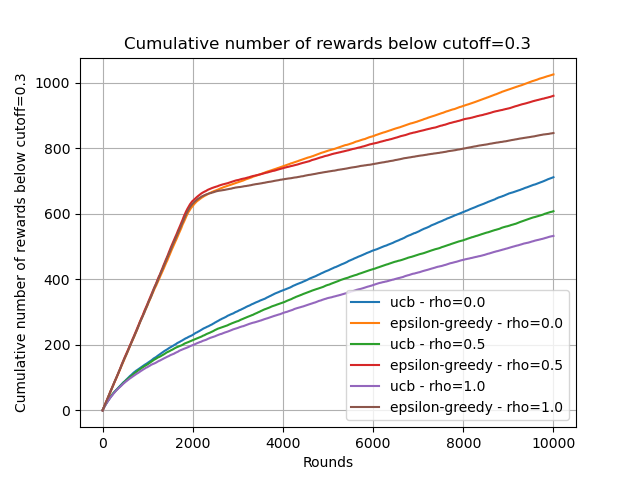
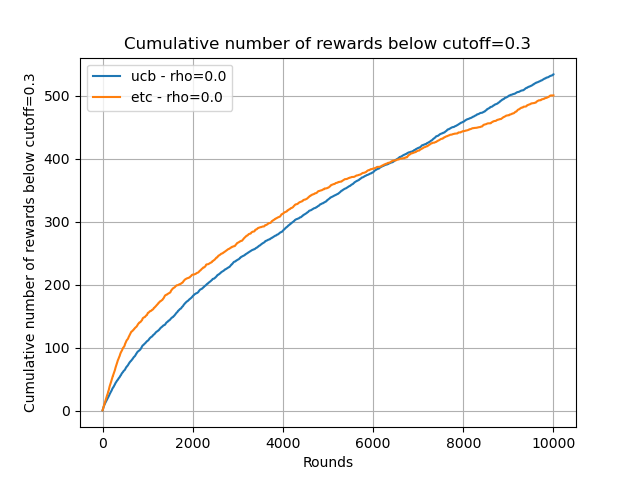
Arm acquiring case, ETC done

Changed region(s): [[0.0, 0.125, 0.9062, 0.875], [0.7812, 0.375, 0.8438, 0.4062], [0.8438, 0.25, 0.875, 0.2812]]

diff --git a/algorithms/etc_mv.py b/algorithms/etc_mv.py
@@ -5,39 +5,37 @@ from util.bandit_algorithm import MVBanditAlgorithm
 import copy
 import abc
 
-class ucb(MVBanditAlgorithm):
-    def __init__(self, _bandit_machine: BanditMachine, rho=1, cutoffs=[0]):
+class etc_mv(MVBanditAlgorithm):
+    def __init__(self, _bandit_machine: BanditMachine, rho=1, cutoffs=0):
         self._bandit_machine = copy.deepcopy(_bandit_machine)
         self._rho = rho
         self._cutoffs = cutoffs
         return
     
-    @abc.abstractmethod
-    def _get_std_coeff(self, t): return
-
     def run_alg(self, T: int, bandit_machine=None):
         if  bandit_machine is None:
             bandit_machine = copy.deepcopy(self._bandit_machine)
-        else:
-            delta = 1.0 / T**2
-            max_var = max([a.variance() for a in self._bandit_machine.arms])
-            self._std_coeff = np.sqrt(2 * max_var * np.log(1.0 / delta))
 
-        K = bandit_machine.num_arms
-
-        U = np.ones(K) * np.inf
-        mu = np.zeros(K)
-        var = np.zeros(K)
-        goodness = np.zeros(K)
-        N = np.zeros(K)
+        init_num_arms = bandit_machine.num_arms
+        
+        sample_means = np.zeros(shape=(init_num_arms,), dtype=float)
+        sample_vars = np.zeros(shape=(init_num_arms,), dtype=float)
+        sample_goodness = np.zeros(shape=(init_num_arms,), dtype=float)
+        sample_pulls = np.zeros(shape=(init_num_arms,), dtype=int)
+        
+        total_reward_per_round = np.zeros(shape=(T,), dtype=float)
         total_reward = 0.0
-        total_reward_per_round = np.zeros(T)
+
+        best_mean, best_arm = bandit_machine.get_max_mean()
+        
+        total_best_exp_reward_per_round = np.zeros(shape=(T,), dtype=float)
+        total_best_exp_reward = 0.0
+
+        total_exp_reward_per_round = np.zeros(shape=(T,), dtype=float)
+        total_exp_reward = 0.0
 
         total_mv = 0
         total_mv_per_round = np.zeros(T)
-
-        total_exp_reward = 0.0
-        total_exp_reward_per_round = np.zeros(T)
 
         total_best_reward = 0.0
         total_best_exp_reward_per_round = np.zeros(T)
@@ -50,9 +48,10 @@ class ucb(MVBanditAlgorithm):
         total_best_mv = 0
         total_best_mv_per_round = np.zeros(T)
 
-        best_mean, best_arm = bandit_machine.get_max_mean()
+        # select arms until max rounds
+        num_arms = init_num_arms
+        
         best_mv, _ = bandit_machine.get_max_mv(self._rho)
-
         count_below_cutoff = np.zeros(len(self._cutoffs))
         count_below_cutoff_per_round = np.zeros(shape=(len(self._cutoffs), T))
 
@@ -61,58 +60,57 @@ class ucb(MVBanditAlgorithm):
             # check if arms are acquired this round
             arms_added = bandit_machine.acquire_arms(t)
             if arms_added:
-                old_K = K
-                K = bandit_machine.num_arms
-                U.resize(K)
-                for i in range(old_K, K):
-                    U[i] = np.inf
-                mu.resize(K)
-                var.resize(K)
-                N.resize(K)
-                goodness.resize(K)
+                num_arms = bandit_machine.num_arms
+                sample_means.resize(num_arms)
+                sample_pulls.resize(num_arms)
+                sample_vars.resize(num_arms)
+                sample_goodness.resize(num_arms)
                 best_mean, best_arm = bandit_machine.get_max_mean()
                 best_mv, _ = bandit_machine.get_max_mv(self._rho)
 
-            a = np.argmax(U) # in case of ties, argmax returns the index of first occurance
-            reward = bandit_machine.arms[a].pull()
-            
-            mu[a] = (mu[a] * N[a] + reward) / (N[a] + 1.0)
-            var[a] = (var[a] * N[a] + (reward - mu[a]) ** 2) / (N[a] + 1.0)
-            goodness[a] = mu[a] - self._rho * var[a]
-            N[a] += 1.0
-            
-            std_coeff = self._get_std_coeff(t)
-            U[a] = goodness[a] + std_coeff / np.sqrt(N[a])
+            if np.min(sample_pulls) < self._m:
+                a = sample_pulls.argmin()
+            else:
+                a = sample_goodness.argmax()
 
-            total_reward += reward
+            # update sample means and number of pulls
+            sample_reward = bandit_machine.arms[a].pull()
+            sample_means[a] = (sample_pulls[a] * sample_means[a] + sample_reward) / (sample_pulls[a] + 1.0)
+            sample_vars[a] = (sample_vars[a] * sample_pulls[a] + (sample_reward - sample_means[a]) ** 2) / (sample_pulls[a] + 1.0)
+            sample_goodness[a] = sample_means[a] - self._rho * sample_vars[a]
+            sample_pulls[a] += 1
+
+            # update reward and best reward for plots
+            total_reward += sample_reward
             total_reward_per_round[t] = total_reward
 
             total_exp_reward += bandit_machine.arms[a].expected_reward()
             total_exp_reward_per_round[t] = total_exp_reward
 
             total_mv += bandit_machine.arms[a].expected_mv_reward(self._rho)
+            total_mv_per_round[t] = total_mv
             total_best_mv += best_mv
+            total_best_mv_per_round[t] = total_best_mv
             total_best_reward += best_mean
             total_best_exp_reward_per_round[t] = total_best_reward
-            total_best_mv_per_round[t] = total_best_mv
-            total_mv_per_round[t] = total_mv
 
             for idx,c in enumerate(self._cutoffs):
-                count_below_cutoff[idx] += 1 if reward < c else 0
+                count_below_cutoff[idx] += 1 if sample_reward < c else 0
                 count_below_cutoff_per_round[idx][t] = count_below_cutoff[idx]
 
-            total_below_best_mean += max(0, best_mean - reward)
+            total_below_best_mean += max(0, best_mean - sample_reward)
             total_below_best_mean_per_round[t] = total_below_best_mean
 
         regret = total_best_exp_reward_per_round - total_exp_reward_per_round
         regret_mv = total_best_mv_per_round - total_mv_per_round
 
         return total_reward_per_round, total_exp_reward_per_round, total_best_exp_reward_per_round, count_below_cutoff_per_round, total_best_mv_per_round, total_mv_per_round, regret, regret_mv, total_below_best_mean_per_round
-    
-class ucb_mv_basic(ucb):
-    def __init__(self, _bandit_machine: BanditMachine, T: int, **kwargs):
+
+
+class etc_mv_alg(etc_mv):
+    def __init__(self, _bandit_machine: BanditMachine, m=10, rho=1, **kwargs):
         super().__init__(_bandit_machine, **kwargs)
-        self.T = T
+        self._m = m
+        self._rho = rho
         return
     
-    def _get_std_coeff(self, t): return self._std_coeff

diff --git a/test_mv_arm_acq.py b/test_mv_arm_acq.py
@@ -5,6 +5,7 @@ import numpy as np
 import random
 from algorithms.ucb_mv import ucb_mv_basic as ucb_mv
 from algorithms.eps_greedy_mv import decay_eps_greedy as decay_eps_greedy_mv
+from algorithms.etc_mv import etc_mv_alg as etc_mv
 from util.bandit_util import StochasticGaussianArmAcquiringMachine, GaussianBanditArm
 from tqdm import tqdm
 from functools import partial
@@ -38,19 +39,26 @@ def get_new_bandit_machine(args, seed=0):
             bandit_machine.insert_arm(GaussianBanditArm(np.random.uniform(args.min_mu, args.max_mu), np.random.uniform(args.min_var, args.max_var)))
         return bandit_machine
 
+def float_or_str(s):
+    try:
+        return float(s)
+    except:
+        return s
+
 P = argparse.ArgumentParser()
 P.add_argument("--num_arms", type=int, default=2)
 P.add_argument("--num_rounds", type=int, default=10000)
 P.add_argument("--num_trials", type=int, default=20)
-P.add_argument("--rhos", type=float, default=[0, 0.5, 2], nargs="+")
-P.add_argument("--cutoffs", type=float, default=[0.3, .5, .7], nargs="+")
+P.add_argument("--rhos", type=float, default=[0, 0.5, 1], nargs="+")
+P.add_argument("--cutoffs", type=float, default=[0.3, .6], nargs="+")
 P.add_argument("--min_mu", type=float, default=0.1)
 P.add_argument("--max_mu", type=float, default=0.9)
 P.add_argument("--min_var", type=float, default=0.05)
 P.add_argument("--max_var", type=float, default=0.2)
 P.add_argument("--seed", type=int, default=0)
-P.add_argument("--p_acc", type=float, default=0.02)
-P.add_argument("--algs", choices=["ucb", "epsilon-greedy"], default=["ucb"], nargs="+")
+P.add_argument("--p_acc", type=float_or_str, default="decay")
+P.add_argument("--m", type=int, default=10)
+P.add_argument("--algs", choices=["ucb", "epsilon-greedy", "etc"], default=["ucb"], nargs="+")
 args = P.parse_args()
 random.seed(args.seed)
 np.random.seed(args.seed)
@@ -77,6 +85,14 @@ for rho in tqdm(args.rhos):
             result = algorithm.run_experiment(args.num_trials, args.num_rounds,
                 trial_to_bandit_machine=partial(get_new_bandit_machine, args))
             rho2alg2results[rho]["epsilon-greedy"] = list(result)
+        elif alg == "etc":
+            algorithm = etc_mv(bandit_machine,
+                m=args.m,
+                rho=rho,
+                cutoffs=args.cutoffs)
+            result = algorithm.run_experiment(args.num_trials, args.num_rounds,
+                trial_to_bandit_machine=partial(get_new_bandit_machine, args))
+            rho2alg2results[rho]["etc"] = list(result)
 
 # Plot normal regret
 for c,(rho,alg) in zip(colors, product(args.rhos, args.algs)):
@@ -104,15 +120,15 @@ plt.grid(True)
 plt.savefig("fig-mv_regret.png")
 plt.close()
 
-for c,(rho,alg) in zip(colors, product(args.rhos, args.algs)):
-    _, _, _, count_below_cutoff, _, _, regret, regret_mv, total_below_best_mean_per_round = rho2alg2results[rho][alg]
-    print(count_below_cutoff)
-    plt.plot(total_below_best_mean_per_round, color=c, label=f"{alg} - rho={rho}")
+for idx,cut in enumerate(args.cutoffs):
+    for c,(rho,alg) in zip(colors, product(args.rhos, args.algs)):
+        _, _, _, count_below_cutoff, _, _, regret, regret_mv, total_below_best_mean_per_round = rho2alg2results[rho][alg]
+        plt.plot(count_below_cutoff[idx], color=c, label=f"{alg} - rho={rho}")
 
-plt.xlabel("Rounds")
-plt.ylabel("Cumulative Reward below Best Arm Mean")
-plt.title('Cumulative Reward below Best Arm Mean vs Round')
-plt.legend()
-plt.grid(True)
-plt.savefig("fig-mv_reward_below_mean.png")
-plt.close()
+    plt.xlabel("Rounds")
+    plt.ylabel(f"Cumulative number of rewards below cutoff={args.cutoffs[0]}")
+    plt.title(f"Cumulative number of rewards below cutoff={args.cutoffs[0]}")
+    plt.legend()
+    plt.grid(True)
+    plt.savefig(f"fig-mv_cutoff_{cut}.png")
+    plt.close()

diff --git a/util/bandit_util.py b/util/bandit_util.py
@@ -91,9 +91,15 @@ class StochasticGaussianArmAcquiringMachine(BanditMachine):
         new_arm_var = random.random() * (self._max_var - self._min_var) + self._min_var
         return GaussianBanditArm(new_arm_mean, new_arm_var)
     
-    def acquire_arms(self):
+    def acquire_arms(self, t=None):
         val = random.random()
-        if val < self._acquire_probability:
+
+        if self._acquire_probability == "decay":
+            prob_acq = 1 / ((t+1) ** 0.5)
+        else:
+            prob_acq = self._acquire_probability 
+
+        if val < prob_acq:
             self.insert_arm(self.generate_arm())
             return True
         else:

diff --git a/algorithms/eps_greedy_mv.py b/algorithms/eps_greedy_mv.py
@@ -67,7 +67,7 @@ class eps_greedy(MVBanditAlgorithm):
         for t in range(0, T):
 
             # check if arms are acquired this round
-            arms_added = bandit_machine.acquire_arms()
+            arms_added = bandit_machine.acquire_arms(t)
             if arms_added:
                 num_arms = bandit_machine.num_arms
                 sample_means.resize(num_arms)
